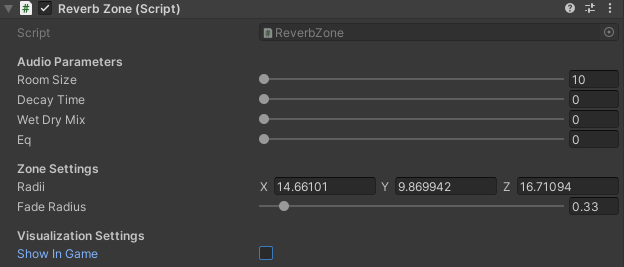
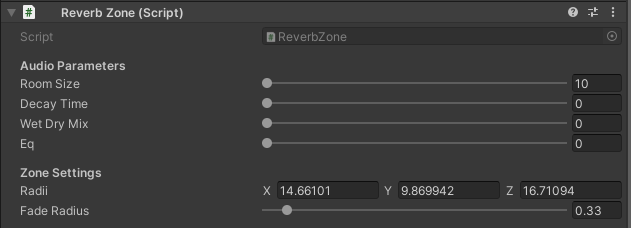
Rename and clean up reverb zone

diff --git a/Birds Test/Assets/Soundscape/ISG_Scripts/Components/ReverbZone.cs b/Birds Test/Assets/Soundscape/ISG_Scripts/Components/ReverbZone.cs
@@ -24,10 +24,6 @@ public class ReverbZone : MonoBehaviour
     [Range(0f, 5f)]
     public float fadeRadius = 1f;
 
-    [Header("Visualization Settings")]
-    // If true, we'll show a simple mesh in-game. Otherwise it's typically for Editor-only viewing.
-    public bool showInGame = false;
-
     private Mesh sphereMesh;
     private MeshRenderer meshRenderer;
     private MeshFilter meshFilter;
@@ -38,13 +34,11 @@ public class ReverbZone : MonoBehaviour
     {
         InitializeComponents();
         // We do NOT set transform.localScale = radii * 2f here. We keep localScale = (1,1,1).
-        UpdateVisuals();
     }
 
     private void OnValidate()
     {
         InitializeComponents();
-        UpdateVisuals();
     }
 
     /// <summary>
@@ -108,32 +102,6 @@ public class ReverbZone : MonoBehaviour
         meshCollider.isTrigger = true;
     }
 
-    /// <summary>
-    /// This is for any visual tweaks, e.g., toggling renderer in play mode.
-    /// Note that we do NOT scale the transform based on 'radii' here.
-    /// </summary>
-    private void UpdateVisuals()
-    {
-        UpdateVisibility();
-    }
-
-    private void UpdateVisibility()
-    {
-        if (meshRenderer != null)
-        {
-            // Show the mesh if showInGame is true, or if we're in Editor mode (not playing)
-            meshRenderer.enabled = showInGame || !Application.isPlaying;
-        }
-    }
-
-    private void Update()
-    {
-        // Update visuals in edit mode
-        if (!Application.isPlaying)
-        {
-            UpdateVisuals();
-        }
-    }
 
     /// <summary>
     /// Draw ellipsoid & fade region in the Scene view for clarity.
